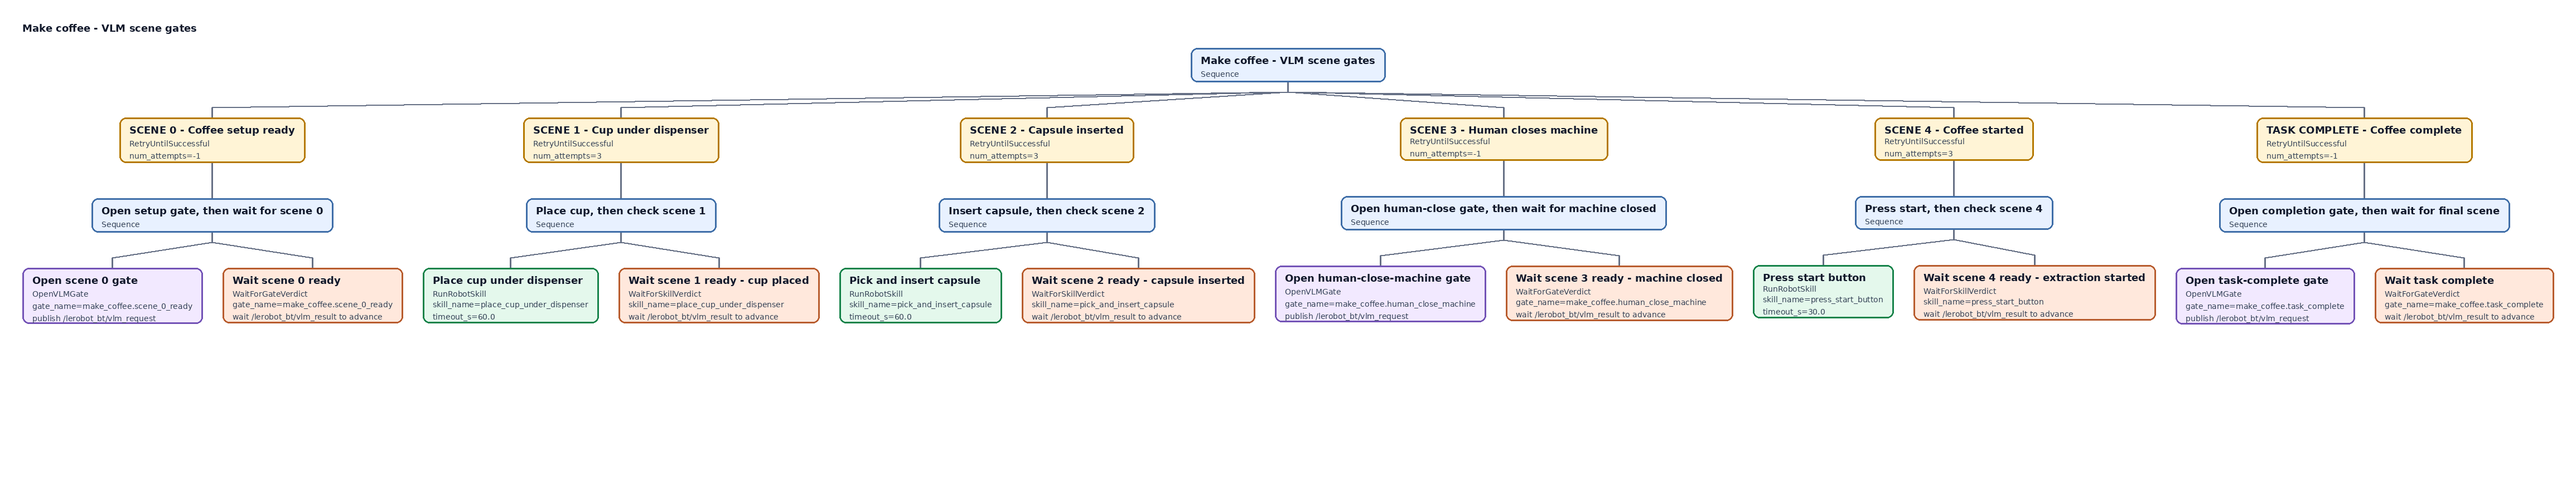
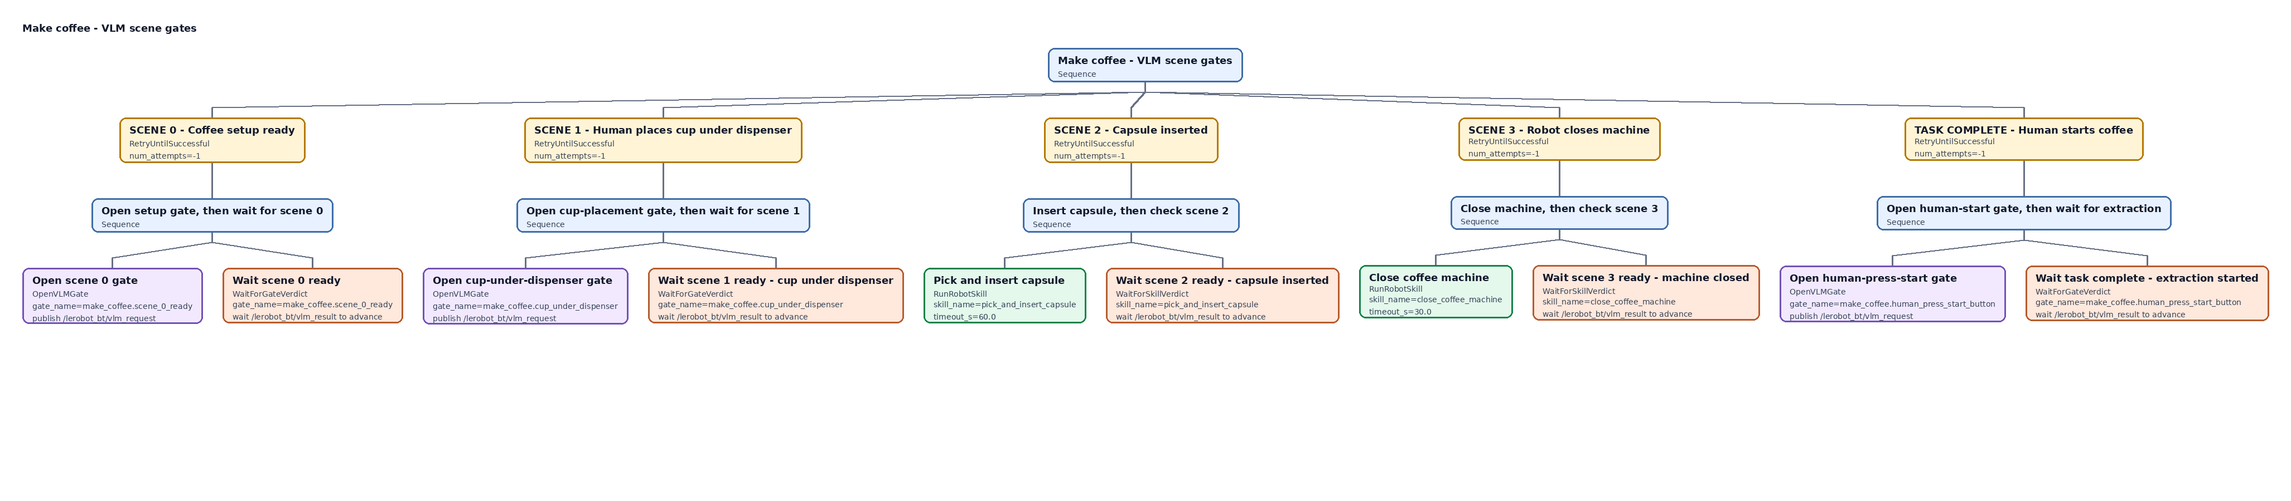
changed coffee BT and picnic BT

diff --git a/src/lerobot_bt_prepare_picnic_bag_README.md b/src/lerobot_bt_prepare_picnic_bag_README.md
@@ -66,25 +66,32 @@ ros2 topic pub --once /lerobot_bt/vlm_result std_msgs/msg/String \
   "{data: '{\"skill_name\":\"prepare_picnic_bag.human_open_bag\",\"attempt_id\":0,\"status\":\"SUCCESS\",\"message\":\"human opened the bag and is holding it open\"}'}"
 ```
 
-Bag next picnic item:
+Human inserts the Monster drink:
 
 ```bash
 ros2 topic pub --once /lerobot_bt/vlm_result std_msgs/msg/String \
-  "{data: '{\"skill_name\":\"bag_next_picnic_item\",\"attempt_id\":0,\"status\":\"SUCCESS\",\"message\":\"all picnic items are now inside the bag\"}'}"
+  "{data: '{\"skill_name\":\"prepare_picnic_bag.human_insert_monster\",\"attempt_id\":0,\"status\":\"SUCCESS\",\"message\":\"Monster drink is inside the bag\"}'}"
 ```
 
-Human closes the bag:
+Robot inserts the bread:
 
 ```bash
 ros2 topic pub --once /lerobot_bt/vlm_result std_msgs/msg/String \
-  "{data: '{\"skill_name\":\"prepare_picnic_bag.human_close_bag\",\"attempt_id\":0,\"status\":\"SUCCESS\",\"message\":\"human closed the picnic bag\"}'}"
+  "{data: '{\"skill_name\":\"bag_bread\",\"attempt_id\":0,\"status\":\"SUCCESS\",\"message\":\"bread is inside the bag\"}'}"
 ```
 
-Task complete:
+Human inserts the mustard:
 
 ```bash
 ros2 topic pub --once /lerobot_bt/vlm_result std_msgs/msg/String \
-  "{data: '{\"skill_name\":\"prepare_picnic_bag.task_complete\",\"attempt_id\":0,\"status\":\"SUCCESS\",\"message\":\"picnic bag is packed and the scene is complete\"}'}"
+  "{data: '{\"skill_name\":\"prepare_picnic_bag.human_insert_mustard\",\"attempt_id\":0,\"status\":\"SUCCESS\",\"message\":\"mustard is inside the bag\"}'}"
+```
+
+Robot inserts the pear. This is the final BT step:
+
+```bash
+ros2 topic pub --once /lerobot_bt/vlm_result std_msgs/msg/String \
+  "{data: '{\"skill_name\":\"bag_pear\",\"attempt_id\":0,\"status\":\"SUCCESS\",\"message\":\"pear is inside the bag\"}'}"
 ```
 
 ## Failure and human help examples
@@ -93,14 +100,14 @@ Retry the current skill:
 
 ```bash
 ros2 topic pub --once /lerobot_bt/vlm_result std_msgs/msg/String \
-  "{data: '{\"skill_name\":\"bag_next_picnic_item\",\"attempt_id\":0,\"status\":\"FAILURE\",\"failure_reason\":\"more_items_remaining\",\"message\":\"the scene is not clean yet, run the bagging skill again\"}'}"
+  "{data: '{\"skill_name\":\"bag_bread\",\"attempt_id\":0,\"status\":\"FAILURE\",\"failure_reason\":\"bread_not_bagged\",\"message\":\"bread is not correctly inside the bag\"}'}"
 ```
 
 Request human intervention:
 
 ```bash
 ros2 topic pub --once /lerobot_bt/vlm_result std_msgs/msg/String \
-  "{data: '{\"skill_name\":\"prepare_picnic_bag.human_open_bag\",\"attempt_id\":0,\"status\":\"WAIT_HUMAN\",\"next_action\":\"REQUEST_MANUAL_INTERVENTION\",\"failure_reason\":\"bag_not_open\",\"required_human_action\":\"open the picnic bag and keep it open for the robot\",\"message\":\"human help required\"}'}"
+  "{data: '{\"skill_name\":\"prepare_picnic_bag.human_insert_monster\",\"attempt_id\":0,\"status\":\"WAIT_HUMAN\",\"next_action\":\"REQUEST_MANUAL_INTERVENTION\",\"failure_reason\":\"monster_not_bagged\",\"required_human_action\":\"insert the Monster drink into the picnic bag\",\"message\":\"human help required\"}'}"
 ```
 
 ## Useful checks

diff --git a/src/lerobot_bt_make_coffee_README.md b/src/lerobot_bt_make_coffee_README.md
@@ -59,11 +59,11 @@ ros2 topic pub --once /lerobot_bt/vlm_result std_msgs/msg/String \
   "{data: '{\"skill_name\":\"make_coffee.scene_0_ready\",\"attempt_id\":0,\"status\":\"SUCCESS\",\"message\":\"coffee setup ready\"}'}"
 ```
 
-Cup placed under dispenser:
+Human placed the cup under the dispenser:
 
 ```bash
 ros2 topic pub --once /lerobot_bt/vlm_result std_msgs/msg/String \
-  "{data: '{\"skill_name\":\"place_cup_under_dispenser\",\"attempt_id\":0,\"status\":\"SUCCESS\",\"message\":\"cup is under the dispenser\"}'}"
+  "{data: '{\"skill_name\":\"make_coffee.cup_under_dispenser\",\"attempt_id\":0,\"status\":\"SUCCESS\",\"message\":\"cup is under the dispenser\"}'}"
 ```
 
 Capsule inserted:
@@ -73,25 +73,18 @@ ros2 topic pub --once /lerobot_bt/vlm_result std_msgs/msg/String \
   "{data: '{\"skill_name\":\"pick_and_insert_capsule\",\"attempt_id\":0,\"status\":\"SUCCESS\",\"message\":\"capsule inserted\"}'}"
 ```
 
-Human closes the machine:
+Robot closed the machine:
 
 ```bash
 ros2 topic pub --once /lerobot_bt/vlm_result std_msgs/msg/String \
-  "{data: '{\"skill_name\":\"make_coffee.human_close_machine\",\"attempt_id\":0,\"status\":\"SUCCESS\",\"message\":\"human closed the coffee machine\"}'}"
+  "{data: '{\"skill_name\":\"close_coffee_machine\",\"attempt_id\":0,\"status\":\"SUCCESS\",\"message\":\"coffee machine closed\"}'}"
 ```
 
-Start button pressed and extraction starts:
+Human pressed the start button and extraction starts. This is the final BT gate:
 
 ```bash
 ros2 topic pub --once /lerobot_bt/vlm_result std_msgs/msg/String \
-  "{data: '{\"skill_name\":\"press_start_button\",\"attempt_id\":0,\"status\":\"SUCCESS\",\"message\":\"coffee extraction started\"}'}"
-```
-
-Task complete:
-
-```bash
-ros2 topic pub --once /lerobot_bt/vlm_result std_msgs/msg/String \
-  "{data: '{\"skill_name\":\"make_coffee.task_complete\",\"attempt_id\":0,\"status\":\"SUCCESS\",\"message\":\"coffee task complete\"}'}"
+  "{data: '{\"skill_name\":\"make_coffee.human_press_start_button\",\"attempt_id\":0,\"status\":\"SUCCESS\",\"message\":\"coffee extraction started\"}'}"
 ```
 
 ## Failure and human help examples
@@ -107,7 +100,7 @@ Request human intervention:
 
 ```bash
 ros2 topic pub --once /lerobot_bt/vlm_result std_msgs/msg/String \
-  "{data: '{\"skill_name\":\"make_coffee.human_close_machine\",\"attempt_id\":0,\"status\":\"WAIT_HUMAN\",\"next_action\":\"REQUEST_MANUAL_INTERVENTION\",\"failure_reason\":\"machine_still_open\",\"required_human_action\":\"close the coffee machine before the robot presses start\",\"message\":\"human help required\"}'}"
+  "{data: '{\"skill_name\":\"make_coffee.human_press_start_button\",\"attempt_id\":0,\"status\":\"WAIT_HUMAN\",\"next_action\":\"REQUEST_MANUAL_INTERVENTION\",\"failure_reason\":\"button_not_pressed\",\"required_human_action\":\"press the coffee machine start button\",\"message\":\"human help required\"}'}"
 ```
 
 ## Useful checks
